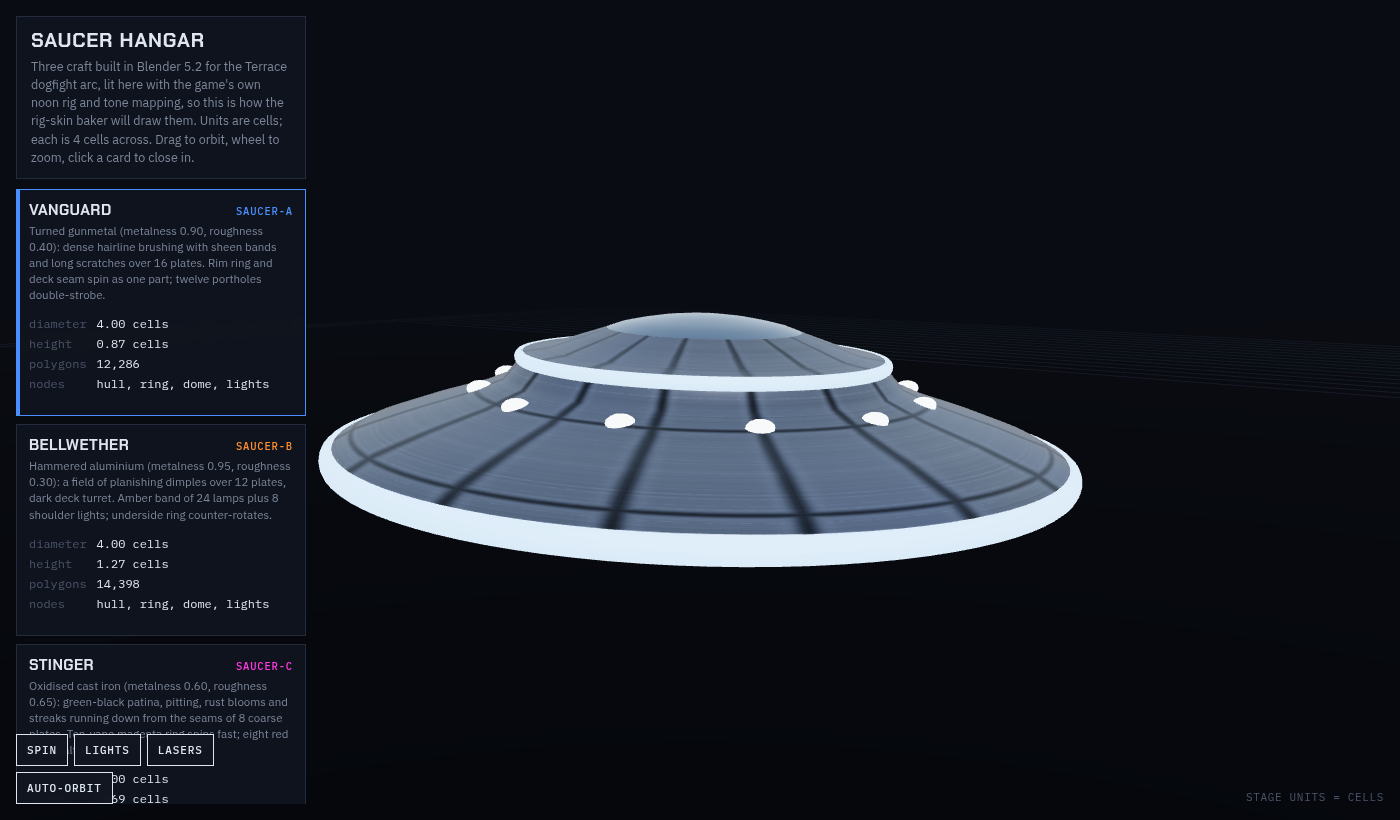
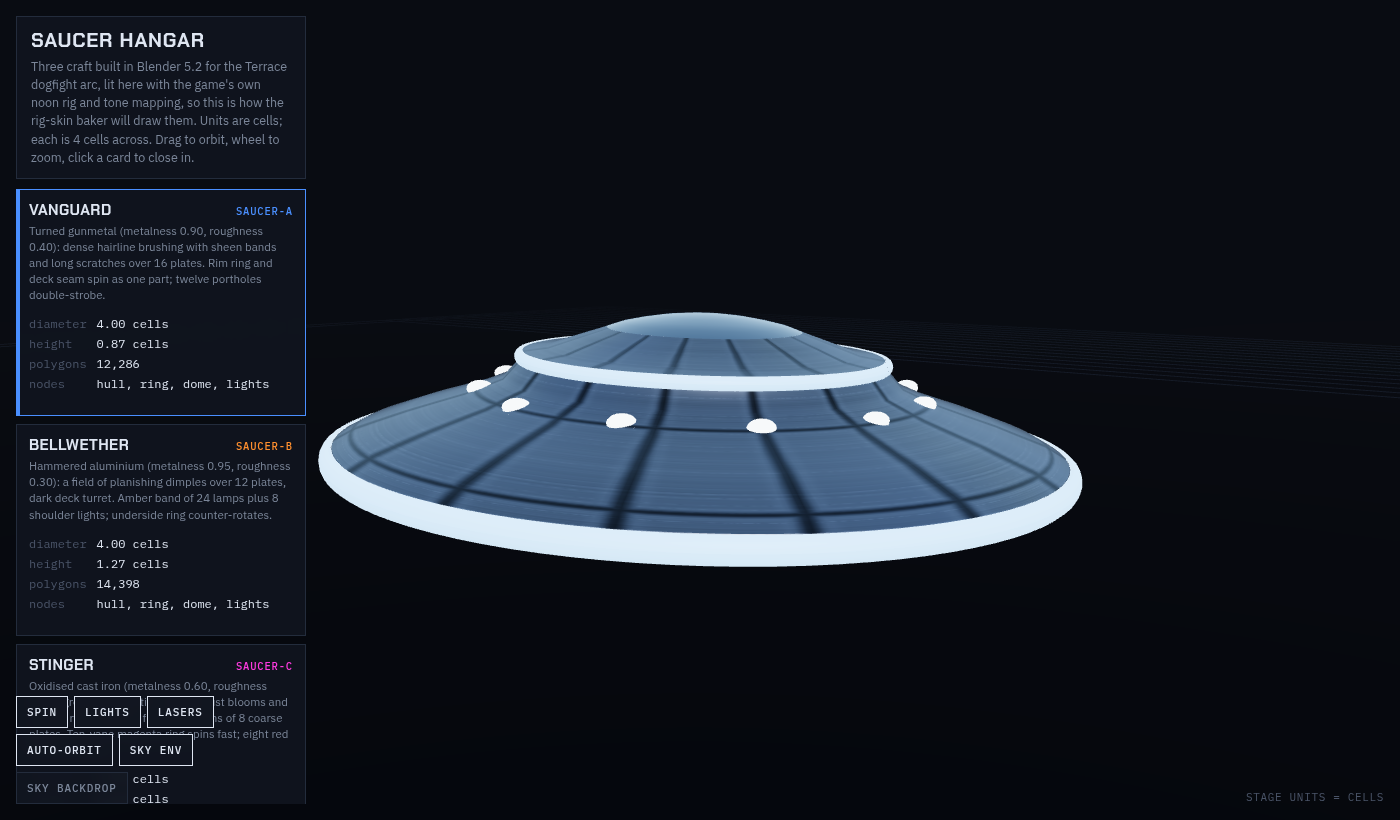
fix(render): sky environment gets real contrast and mirrors the drawn sky
The first map re-encoded the (deliberately flat) lamps, so metals mirrored
a near-uniform grey-blue and read as paint (owner: "still looks exactly
the same"). Now: zenith radiance solved so ACES(exposure x L) displays as
scene.background (three clears the background untone-mapped), ground at
0.3 of the rig's ground colour, horizon 1.6x zenith, compact sun disc.
Hangar gains Sky env / Sky backdrop A/B toggles and ?env=0&sky=1 params.

diff --git a/client/src/render/skyEnvironment.ts b/client/src/render/skyEnvironment.ts
@@ -23,6 +23,7 @@
 // exactly one paint, at boot.
 
 import {
+  ACESFilmicToneMapping,
   Color,
   DataTexture,
   EquirectangularReflectionMapping,
@@ -59,18 +60,65 @@ const SKY_ENVIRONMENT_HEIGHT = SKY_ENVIRONMENT_WIDTH / 2;
 export const SKY_ENVIRONMENT_REFRESH_MS = 1000;
 
 /**
- * Exponent of the cosine lobe that paints the sun's glow. 64 puts the glow's
- * half-brightness at about 8° from the sun's direction: a visible bright patch
- * in a curved metal reflection rather than a point (which a 64² face could
- * not resolve) or a wash across the whole sky.
+ * CONTRAST IS WHAT MAKES A METAL READ AS A METAL — not the average level.
+ * The lamps were tuned flat on purpose (2026-08-14: "too dark", three
+ * rounds), and a first version of this map that simply re-encoded them gave
+ * every hull a near-uniform grey-blue to mirror, which looks like dull paint
+ * (owner, 2026-09-04: "the lighting for the saucers still looks exactly the
+ * same"). So the map keeps the LAMPS' colours but shapes them the way a real
+ * sky is shaped: a dark ground under a bright sky, a horizon brighter than the
+ * zenith, and a sun you can see in the reflection. The three constants below
+ * are that shape.
+ */
+
+/**
+ * THE SKY IN A MIRROR IS THE SKY YOU SEE. scene.background is a plain Color,
+ * which three clears the framebuffer to WITHOUT tone mapping
+ * (WebGLBackground.setClear, verified in 0.185), while every reflection goes
+ * through ACES at the renderer's exposure. So the zenith radiance is solved
+ * for, per paint: the scalar that makes ACES(exposure × radiance) land on the
+ * background colour's own value — a perfect mirror then shows exactly the sky
+ * drawn behind it, and a first version that anchored the radiance to the
+ * hemisphere lamp instead (radiance = intensity × colour / PI) mirrored a sky
+ * about half as bright as the one on screen, which read as grey paint.
+ * Bisection bounds and tolerance below; the search is a few dozen cheap
+ * evaluations, once per repaint.
+ */
+const RADIANCE_SEARCH_MAX = 64;
+const RADIANCE_SEARCH_STEPS = 40;
+
+/**
+ * Fraction of the hemisphere's ground colour the ground below the horizon
+ * radiates. The lamp's ground colour is an artistic FILL (it stops downward
+ * faces going black); real ground only re-radiates what its albedo keeps of
+ * the light falling on it, ~0.2–0.35 for earth and vegetation. 0.3 puts the
+ * ground at roughly a fifth of the sky's radiance — the bright-top / dark-
+ * underside split a curved metal shows.
+ */
+const GROUND_RADIANCE_FRACTION = 0.3;
+
+/**
+ * How much brighter the sky is at the horizon than at the zenith. Aerosol
+ * scattering whitens and brightens a real sky toward the horizon by about
+ * this much on a clear day; in a reflection it is the bright band that runs
+ * around a hull just above its dark underside.
+ */
+const HORIZON_BRIGHTENING = 1.6;
+
+/**
+ * Exponent and peak of the cosine lobe that paints the sun. 256 puts the
+ * lobe's half-brightness at about 4° from the sun's direction: a compact
+ * bright disc a 64² PMREM face can still resolve, that a rough metal blurs
+ * into a soft highlight and a smooth one keeps as a spot. The peak is the sun
+ * lamp's intensity times SUN_GLOW_GAIN: high enough to survive ACES as white.
  *
  * NOT THE SUN'S TRUE SPECULAR HIGHLIGHT — the DirectionalLight already gives
- * that. This lobe is what makes a metal read as a metal: a reflected bright
- * region that moves as the hull turns. The lobe's total irradiance is about a
- * tenth of the lamp's (solid angle ≈ 2π / (sharpness + 1)), which is the
- * degree of double-counting accepted for it.
+ * that. The lobe's total irradiance is about 2π / (sharpness + 1) × peak ≈
+ * 14 % of the lamp's, which is the double-counting accepted for a visible sun
+ * in the reflection.
  */
-const SUN_GLOW_SHARPNESS = 64;
+const SUN_GLOW_SHARPNESS = 256;
+const SUN_GLOW_GAIN = 6;
 
 /**
  * Half-height, in the direction's y, of the blend between the ground and sky
@@ -142,40 +190,29 @@ export function createSkyEnvironment(
   // Scratch objects, allocated once: paint() runs on the render thread.
   const skyColor = new Color();
   const groundColor = new Color();
-  const ambientColor = new Color();
   const sunColor = new Color();
-  const ambientRadiance = new Color();
   const skyRadiance = new Color();
   const groundRadiance = new Color();
   const sunDirection = new Vector3();
   const direction = new Vector3();
 
   const paint = (state: SkyRigState): void => {
-    skyColor.setHex(state.hemisphereSkyColor);
+    skyColor.setHex(state.backgroundColor);
     groundColor.setHex(state.hemisphereGroundColor);
-    ambientColor.setHex(state.ambientColor);
     sunColor.setHex(state.sunColor);
     sunDirection
       .set(state.sunDirection.x, state.sunDirection.y, state.sunDirection.z)
       .normalize();
 
-    // RADIANCE, MATCHED TO THE LAMPS. A diffuse surface lit by the environment
-    // receives PI × (average radiance) as irradiance (three's getIBLIrradiance
-    // in envmap_physical_pars_fragment.glsl.js), while a hemisphere or ambient
-    // lamp delivers intensity × colour as irradiance directly
-    // (getHemisphereLightIrradiance, lights_pars_begin.glsl.js — both verified
-    // in three 0.185). Dividing the lamp terms by PI therefore makes "the sky
-    // above" in a reflection exactly as bright as the sky the lamps model, so
-    // the reflection sits in the same exposure as everything around it.
-    ambientRadiance.copy(ambientColor).multiplyScalar(state.ambientIntensity / Math.PI);
-    skyRadiance
-      .copy(skyColor)
-      .multiplyScalar(state.hemisphereIntensity / Math.PI)
-      .add(ambientRadiance);
-    groundRadiance
-      .copy(groundColor)
-      .multiplyScalar(state.hemisphereIntensity / Math.PI)
-      .add(ambientRadiance);
+    // RADIANCE SCALE — see RADIANCE_SEARCH_MAX. The zenith is the background
+    // colour at the radiance that tone-maps back to itself; the ground keeps
+    // the rig's ground hue at the same scale, dimmed to what ground reflects.
+    // The hemisphere and ambient lamps are deliberately NOT encoded here: the
+    // ambient is an orientation-free floor, and a floor added to every
+    // direction is exactly the flatness this map must not have.
+    const scale = radianceMatchingDisplay(skyColor, renderer);
+    skyRadiance.copy(skyColor).multiplyScalar(scale);
+    groundRadiance.copy(groundColor).multiplyScalar(scale * GROUND_RADIANCE_FRACTION);
 
     let i = 0;
     for (let row = 0; row < SKY_ENVIRONMENT_HEIGHT; row++) {
@@ -191,15 +228,22 @@ export function createSkyEnvironment(
         Math.max(0, (y + HORIZON_BLEND_HALF_HEIGHT) / (2 * HORIZON_BLEND_HALF_HEIGHT)),
       );
       const skyWeight = t * t * (3 - 2 * t);
-      const baseR = groundRadiance.r + (skyRadiance.r - groundRadiance.r) * skyWeight;
-      const baseG = groundRadiance.g + (skyRadiance.g - groundRadiance.g) * skyWeight;
-      const baseB = groundRadiance.b + (skyRadiance.b - groundRadiance.b) * skyWeight;
+      // Zenith → horizon brightening: full at the horizon (y = 0), none
+      // straight up (y = 1); applied to the sky side only.
+      const horizonWeight = 1 - Math.max(0, y);
+      const skyGain = 1 + (HORIZON_BRIGHTENING - 1) * horizonWeight;
+      const skyR = skyRadiance.r * skyGain;
+      const skyG = skyRadiance.g * skyGain;
+      const skyB = skyRadiance.b * skyGain;
+      const baseR = groundRadiance.r + (skyR - groundRadiance.r) * skyWeight;
+      const baseG = groundRadiance.g + (skyG - groundRadiance.g) * skyWeight;
+      const baseB = groundRadiance.b + (skyB - groundRadiance.b) * skyWeight;
       for (let column = 0; column < SKY_ENVIRONMENT_WIDTH; column++) {
         const u = (column + 0.5) / SKY_ENVIRONMENT_WIDTH;
         const azimuth = (u - 0.5) * 2 * Math.PI;
         direction.set(horizontal * Math.cos(azimuth), y, horizontal * Math.sin(azimuth));
         const towardSun = Math.max(0, direction.dot(sunDirection));
-        const glow = Math.pow(towardSun, SUN_GLOW_SHARPNESS) * state.sunIntensity;
+        const glow = Math.pow(towardSun, SUN_GLOW_SHARPNESS) * state.sunIntensity * SUN_GLOW_GAIN;
         texels[i++] = baseR + sunColor.r * glow;
         texels[i++] = baseG + sunColor.g * glow;
         texels[i++] = baseB + sunColor.b * glow;
@@ -210,9 +254,10 @@ export function createSkyEnvironment(
   };
 
   /**
-   * The lighting numbers of the last state painted, as one string — the
-   * background colour is left out because a reflection never shows it. A
-   * string compare per frame is the whole cost of an unchanged sky.
+   * The numbers of the last state painted, as one string — only the ones
+   * paint() reads (the ambient lamp and the hemisphere's sky colour are
+   * deliberately not among them, see paint). A string compare per frame is
+   * the whole cost of an unchanged sky.
    */
   const fingerprintOf = (state: SkyRigState): string =>
     [
@@ -221,11 +266,10 @@ export function createSkyEnvironment(
       state.sunDirection.z,
       state.sunColor,
       state.sunIntensity,
-      state.hemisphereSkyColor,
+      state.backgroundColor,
       state.hemisphereGroundColor,
-      state.hemisphereIntensity,
-      state.ambientColor,
-      state.ambientIntensity,
+      renderer.toneMapping,
+      renderer.toneMappingExposure,
     ].join(',');
 
   paint(initial);
@@ -264,4 +308,75 @@ export function createSkyEnvironment(
       pmrem.dispose();
     },
   };
+}
+
+// ---------------------------------------------------------------------------
+// ACES, on the CPU — three's ACESFilmicToneMapping (tonemapping_pars_fragment
+// .glsl.js, 0.185) transcribed so the radiance search above can ask "what
+// does this radiance display as?" with the renderer's own curve.
+// ---------------------------------------------------------------------------
+
+/** sRGB => XYZ => D65_2_D60 => AP1 => RRT_SAT, row-major as applied to (r,g,b). */
+const ACES_INPUT = [
+  [0.59719, 0.35458, 0.04823],
+  [0.076, 0.90834, 0.01566],
+  [0.0284, 0.13383, 0.83777],
+] as const;
+/** ODT_SAT => XYZ => D60_2_D65 => sRGB, row-major. */
+const ACES_OUTPUT = [
+  [1.60475, -0.53108, -0.07367],
+  [-0.10208, 1.10813, -0.00605],
+  [-0.00327, -0.07276, 1.07602],
+] as const;
+/** The 1/0.6 pre-scale three's implementation applies with the exposure. */
+const ACES_EXPOSURE_PRESCALE = 1 / 0.6;
+
+const acesScratch = new Color();
+
+function rrtAndOdtFit(v: number): number {
+  const a = v * (v + 0.0245786) - 0.000090537;
+  const b = v * (0.983729 * v + 0.432951) + 0.238081;
+  return a / b;
+}
+
+/** three's ACES filmic curve applied to a linear colour, in place. */
+function acesFilmic(color: Color, exposure: number): Color {
+  const k = exposure * ACES_EXPOSURE_PRESCALE;
+  const r = color.r * k;
+  const g = color.g * k;
+  const b = color.b * k;
+  const fr = rrtAndOdtFit(ACES_INPUT[0][0] * r + ACES_INPUT[0][1] * g + ACES_INPUT[0][2] * b);
+  const fg = rrtAndOdtFit(ACES_INPUT[1][0] * r + ACES_INPUT[1][1] * g + ACES_INPUT[1][2] * b);
+  const fb = rrtAndOdtFit(ACES_INPUT[2][0] * r + ACES_INPUT[2][1] * g + ACES_INPUT[2][2] * b);
+  color.r = Math.min(1, Math.max(0, ACES_OUTPUT[0][0] * fr + ACES_OUTPUT[0][1] * fg + ACES_OUTPUT[0][2] * fb));
+  color.g = Math.min(1, Math.max(0, ACES_OUTPUT[1][0] * fr + ACES_OUTPUT[1][1] * fg + ACES_OUTPUT[1][2] * fb));
+  color.b = Math.min(1, Math.max(0, ACES_OUTPUT[2][0] * fr + ACES_OUTPUT[2][1] * fg + ACES_OUTPUT[2][2] * fb));
+  return color;
+}
+
+/** Rec. 709 luminance of a linear colour. */
+function luminance(color: Color): number {
+  return 0.2126 * color.r + 0.7152 * color.g + 0.0722 * color.b;
+}
+
+/**
+ * The scalar s such that `displayed` drawn at radiance s × displayed, through
+ * the renderer's tone mapping, has the luminance of `displayed` itself — i.e.
+ * a mirror of that radiance shows the colour the background is cleared to.
+ * With no tone mapping (or one this module does not model) the answer is 1.
+ * ACES saturates, so a background brighter than the curve can reach is
+ * matched as closely as the search bound allows.
+ */
+function radianceMatchingDisplay(displayed: Color, renderer: WebGLRenderer): number {
+  if (renderer.toneMapping !== ACESFilmicToneMapping) return 1;
+  const target = luminance(displayed);
+  let low = 0;
+  let high = RADIANCE_SEARCH_MAX;
+  for (let i = 0; i < RADIANCE_SEARCH_STEPS; i++) {
+    const mid = (low + high) / 2;
+    acesScratch.copy(displayed).multiplyScalar(mid);
+    if (luminance(acesFilmic(acesScratch, renderer.toneMappingExposure)) < target) low = mid;
+    else high = mid;
+  }
+  return (low + high) / 2;
 }

diff --git a/.saucer-hangar/hangar.template.html b/.saucer-hangar/hangar.template.html
@@ -53,6 +53,8 @@
     <button data-k="lights" aria-pressed="true">Lights</button>
     <button data-k="lasers" aria-pressed="true">Lasers</button>
     <button data-k="orbit" aria-pressed="true">Auto-orbit</button>
+    <button data-k="env" aria-pressed="true" title="A/B: the sky environment map the game gives authored metals (#314). Off = lamps only, the old look.">Sky env</button>
+    <button data-k="sky" aria-pressed="false" title="Backdrop: the game's sky colour instead of the hangar's dark floor.">Sky backdrop</button>
   </div>
 </aside>
 <div class="hint">STAGE UNITS = CELLS</div>
@@ -155,7 +157,8 @@ const loader = new GLTFLoader();
 const models = [];
 const boltPool = [];
 const clock = new THREE.Clock();
-const state = { spin:true, lights:true, lasers:true, orbit:true, focus:null };
+const state = { spin:true, lights:true, lasers:true, orbit:true, env:true, sky:false, focus:null };
+const HANGAR_BACKGROUND = 0x090c12;
 
 function b64ToBuffer(b64){ const s = atob(b64); const u = new Uint8Array(s.length); for (let i=0;i<s.length;i++) u[i]=s.charCodeAt(i); return u.buffer; }
 
@@ -168,6 +171,7 @@ async function loadCraft(spec, index){
   // What the game's loader does (rigAsset.ts createRigAsset, 'sky-environment'
   // policy): every PBR material in the file reflects the sky.
   root.traverse(o => { if (o.isMesh && o.material.isMeshStandardMaterial) o.material.envMap = skyEnvironment.texture; });
+  const pbrMaterials = []; root.traverse(o => { if (o.isMesh && o.material.isMeshStandardMaterial) pbrMaterials.push(o.material); });
   // Material handles for the runtime effects (one material per mesh by contract).
   const lightBase = parts.lights.material.emissiveIntensity;
   const ringBase = parts.ring.material.emissiveIntensity;
@@ -178,7 +182,7 @@ async function loadCraft(spec, index){
   const spinClip = gltf.animations.find(a => a.name === 'spin');
   const action = spinClip ? mixer.clipAction(spinClip) : null;
   if (action) { action.setLoop(THREE.LoopRepeat, Infinity); action.play(); }
-  models.push({ spec, index, pivot, root, parts, mixer, action, lightBase, ringBase, phase: index * 2.1, nextShot: 0.4 + index * 0.5, fireHeading: 0 });
+  models.push({ spec, index, pivot, root, parts, pbrMaterials, mixer, action, lightBase, ringBase, phase: index * 2.1, nextShot: 0.4 + index * 0.5, fireHeading: 0 });
 }
 
 function boltMesh(color){
@@ -287,13 +291,27 @@ document.getElementById('toggles').addEventListener('click', e => {
   const b = e.target.closest('button'); if (!b) return;
   state[b.dataset.k] = !state[b.dataset.k];
   b.setAttribute('aria-pressed', String(state[b.dataset.k]));
+  if (b.dataset.k === 'env') applyEnvToggle();
+  if (b.dataset.k === 'sky') applySkyToggle();
 });
+// The A/B the owner asked for: the same hulls with and without the environment.
+function applyEnvToggle(){
+  for (const m of models) for (const mat of m.pbrMaterials) { mat.envMap = state.env ? skyEnvironment.texture : null; mat.needsUpdate = true; }
+}
+function applySkyToggle(){
+  const bg = state.sky ? NOON.backgroundColor : HANGAR_BACKGROUND;
+  scene.background.setHex(bg); scene.fog.color.setHex(bg);
+  grid.visible = !state.sky; floor.visible = !state.sky;
+}
 if (matchMedia('(prefers-reduced-motion: reduce)').matches) { state.orbit = false; document.querySelector('[data-k="orbit"]').setAttribute('aria-pressed','false'); }
 
 try {
   await Promise.all(CRAFT.map((s, i) => loadCraft(s, i)));
   // ?focus=a|b|c opens on one craft — for the screenshot rig (shot.mjs).
-  const wanted = new URLSearchParams(location.search).get('focus');
+  const params = new URLSearchParams(location.search);
+  if (params.get('env') === '0') { state.env = false; document.querySelector('[data-k="env"]').setAttribute('aria-pressed','false'); applyEnvToggle(); }
+  if (params.get('sky') === '1') { state.sky = true; document.querySelector('[data-k="sky"]').setAttribute('aria-pressed','true'); applySkyToggle(); }
+  const wanted = params.get('focus');
   if (wanted && CRAFT.some(c => c.key === wanted)) {
     state.focus = wanted;
     for (const c of craftEl.children) c.setAttribute('aria-pressed', String(c.dataset.key === wanted));
